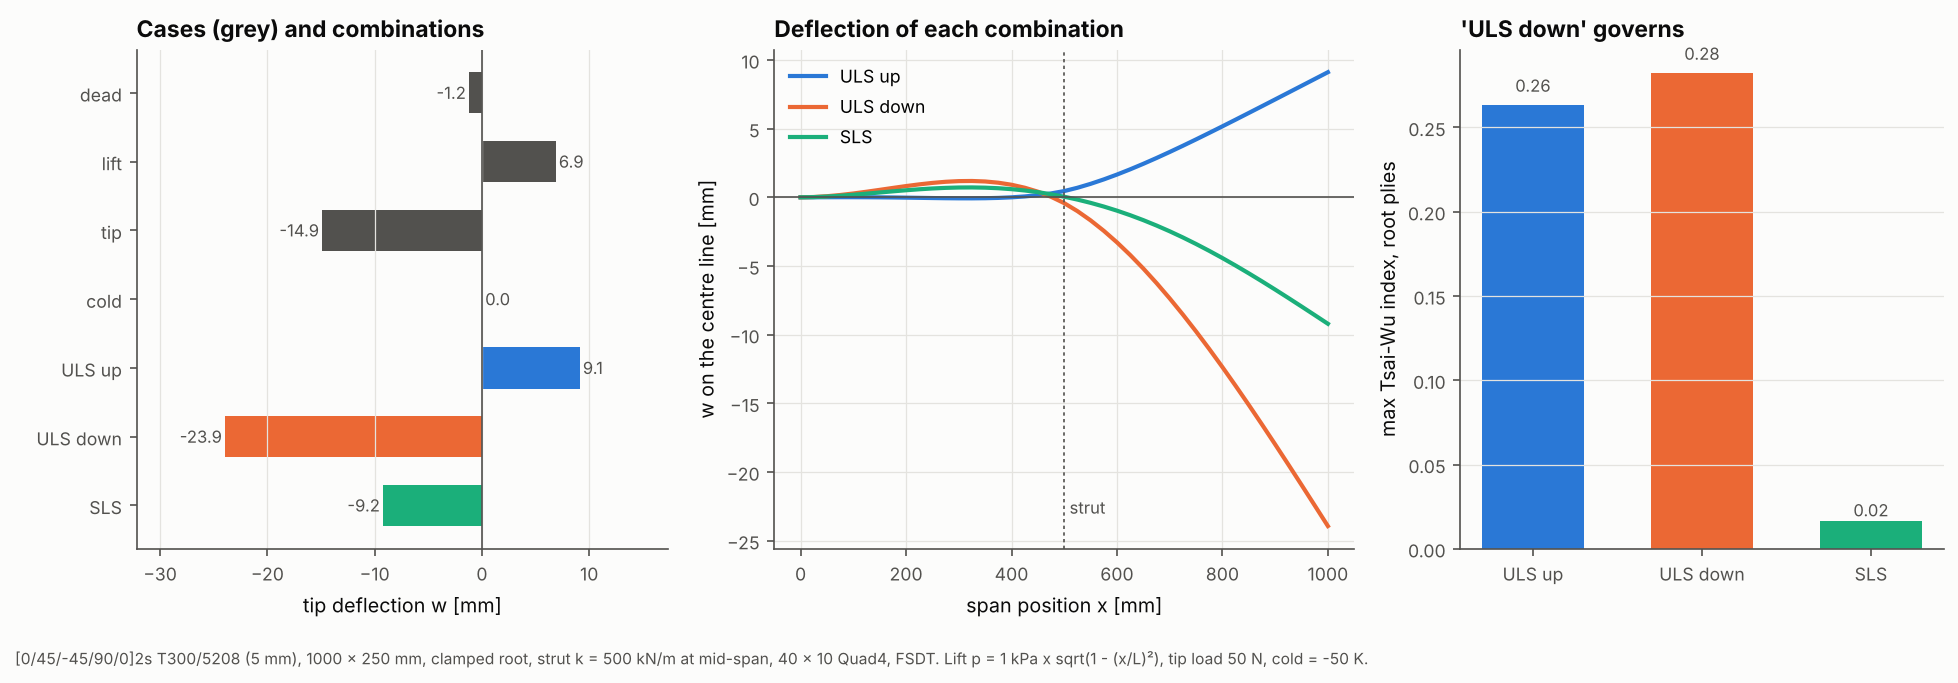
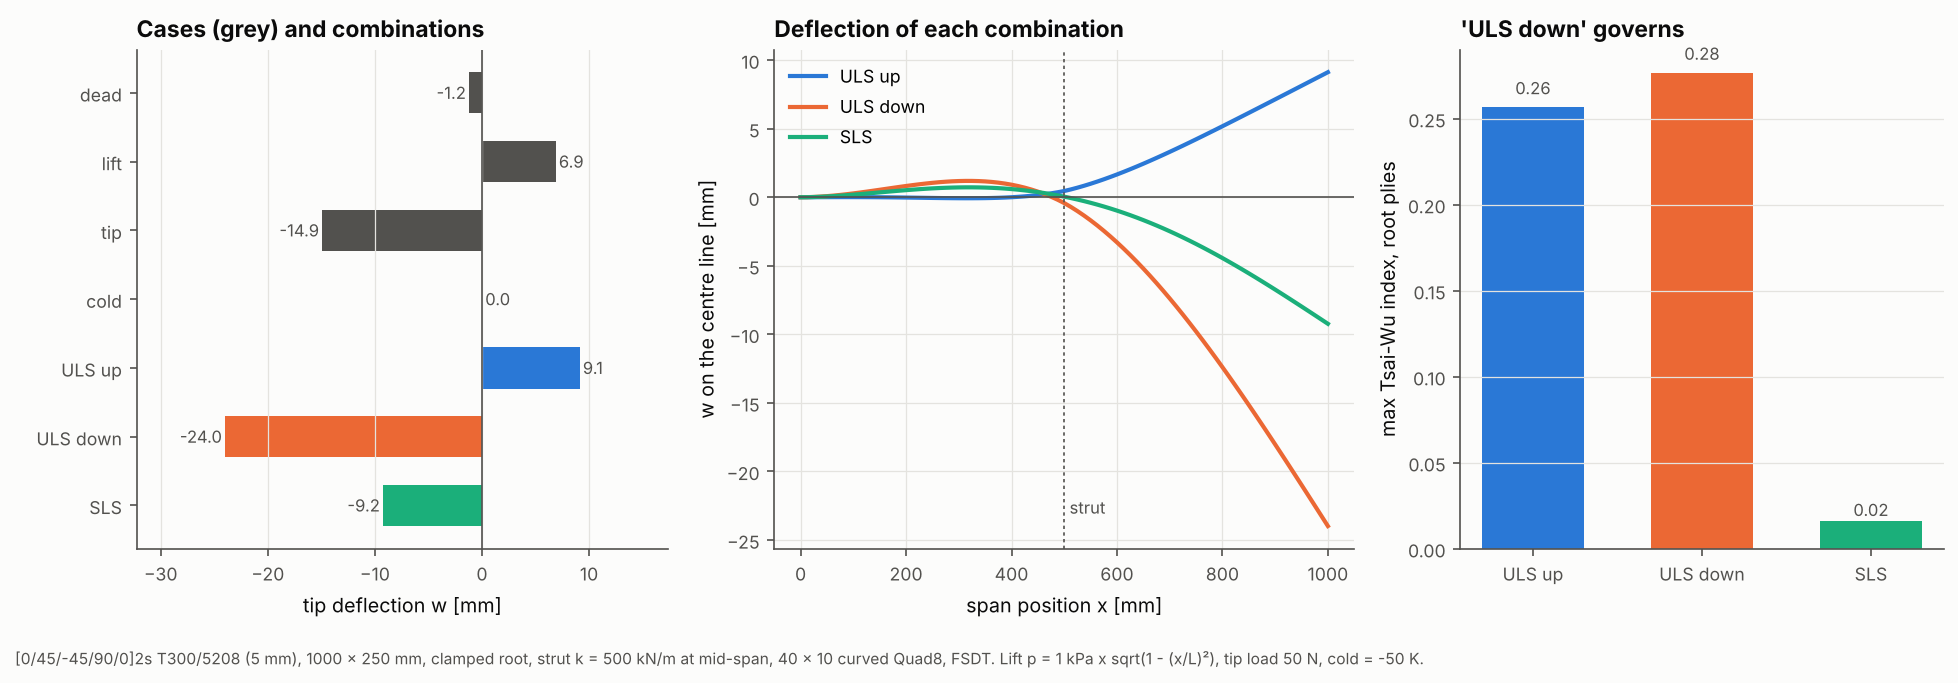
Make curved Quad8 the default element and fix its selective integration
The plate, panel, Gmsh and blade builders now default to quad8_curved
(FEAMesh.rectangular_plate stays a Quad4 helper). Gmsh 8-node quads read
from .msh files become curved Quad8 unless the importer says curved=False.

Curved Quad8 moved only the bare membrane term to the 2 x 2 rule and kept
the membrane-bending coupling of offset or unsymmetric laminates on 3 x 3,
so the element stiffness could turn indefinite: a coarse blade with +/-20
degree caps gave a negative GJ. The part moved to 2 x 2 is now the
generalised membrane strain e_m + A^-1 C_mr r, leaving a positive
semi-definite remainder on 3 x 3.

- Tests that rely on linear elements (edge-load lumping, rebuilt meshes,
  centroids on a line) name quad4; the rigid-body-mode test checks
  two-element meshes and documents the single quad's S8R-like mode.
- Examples 17, 19, 20, 21, 23, 24 and 25 re-run; 08 stays on Quad4
  because it reads Kt from nodal averages.

Claude-Session: https://claude.ai/code/session_0184yXXu3LEK8t2icL4rEzG1

diff --git a/src/laminate_modelling_package/laminate_gmsh.py b/src/laminate_modelling_package/laminate_gmsh.py
@@ -14,10 +14,10 @@ Physical groups carry the model data:
 Supported surface elements are 3-node triangles (Tri3), 6-node triangles (Tri6,
 curved), 4-node quads (Quad4) and 8-node serendipity quads (Quad8, ``Mesh.ElementOrder
 = 2`` with ``Mesh.SecondOrderIncomplete = 1``), in any mix. 8-node quads become flat
-Quad8 elements, or curved Quad8 shells with ``curved=True``. Gmsh puts second-order
+Quad8 elements with ``curved=False``, or curved Quad8 shells (the default). Gmsh puts second-order
 nodes on the CAD geometry, so the curved elements follow curved surfaces. The
-builders take ``element="quad4" | "tri3" | "quad8" | "quad8_curved" | "tri6" |
-"quad_dominant"`` and set the Gmsh options.
+builders take ``element="quad8_curved"`` (the default) ``| "quad4" | "tri3" | "quad8" |
+"tri6" | "quad_dominant"`` and set the Gmsh options.
 """
 
 from __future__ import annotations
@@ -135,7 +135,7 @@ class GmshMeshImporter:
         reversed, so pressure and the ply stack face a consistent side. Use
         ``None`` to keep Gmsh's orientation (for example on closed 3D surfaces).
     curved:
-        Build 8-node quads as curved Quad8 shells instead of flat Quad8.
+        Build 8-node quads as curved Quad8 shells (the default) instead of flat Quad8.
     """
 
     def __init__(
@@ -144,7 +144,7 @@ class GmshMeshImporter:
         kinematics: KinematicModel,
         default_laminate: Optional[Laminate] = None,
         reference_normal: Optional[Sequence[float]] = (0.0, 0.0, 1.0),
-        curved: bool = False,
+        curved: bool = True,
         **element_options,
     ):
         self.curved = bool(curved)
@@ -160,12 +160,15 @@ class GmshMeshImporter:
 
     # ----------------------------------------------------------------- entry points
     def from_file(
-        self, path: Union[str, Path], mesh_options: Optional[Mapping[str, float]] = None, element: str = "quad4"
+        self, path: Union[str, Path], mesh_options: Optional[Mapping[str, float]] = None,
+        element: Optional[str] = None,
     ) -> GmshMesh:
         """Read a ``.msh`` file, or open a geometry file (``.geo``, ``.step``, ...) and mesh it.
 
-        ``element`` picks the element family for geometry files; ``mesh_options``
-        overrides or adds Gmsh options.
+        ``element`` picks the element family for geometry files (curved Quad8 by
+        default); ``mesh_options`` overrides or adds Gmsh options. A ``.msh`` file keeps
+        its own elements, and its 8-node quads follow the importer's ``curved`` unless
+        ``element`` says otherwise.
         """
         path = Path(path)
         if not path.exists():
@@ -174,12 +177,13 @@ class GmshMeshImporter:
             gmsh.clear()
             gmsh.open(str(path))
             if path.suffix.lower() != ".msh":
+                element = element or "quad8_curved"
                 options = globals()["mesh_options"](element)
                 options.update(mesh_options or {})
                 for name, value in options.items():
                     gmsh.option.setNumber(name, value)
                 gmsh.model.mesh.generate(2)
-            return self.from_model(curved=True if element == "quad8_curved" else None)
+            return self.from_model(curved={"quad8_curved": True, "quad8": False}.get(element))
 
     def from_model(self, curved: Optional[bool] = None) -> GmshMesh:
         """Convert the mesh of the current Gmsh model (already generated) into an ``FEAMesh``.
@@ -303,7 +307,7 @@ class GmshPlateBuilder:
     ``bottom`` (y = 0), ``top`` (y = width), ``hole_1``, ``hole_2``, ... and
     ``plate`` (the whole surface, also the element set name). The element size
     shrinks to ``hole_size`` on the hole edges and grows to ``size`` over
-    ``transition`` hole radii. ``element`` chooses Quad4 (default), Tri3, Quad8, curved Quad8, Tri6
+    ``transition`` hole radii. ``element`` chooses curved Quad8 (default), Quad4, Tri3, flat Quad8, Tri6
     or a quad-dominant Quad4/Tri3 mix.
     """
 
@@ -315,7 +319,7 @@ class GmshPlateBuilder:
         size: Optional[float] = None,
         hole_size: Optional[float] = None,
         transition: float = 3.0,
-        element: str = "quad4",
+        element: str = "quad8_curved",
     ):
         self.element = element
         mesh_options(element)  # validates the choice
@@ -342,7 +346,7 @@ class GmshPlateBuilder:
             gmsh.model.mesh.generate(2)
             if save_msh is not None:
                 gmsh.write(str(save_msh))
-            return importer.from_model(curved=True if self.element == "quad8_curved" else None)
+            return importer.from_model(curved={"quad8_curved": True, "quad8": False}.get(self.element))
 
     def _geometry(self, gmsh) -> None:
         occ = gmsh.model.occ

diff --git a/tests/test_generality.py b/tests/test_generality.py
@@ -130,7 +130,8 @@ def test_layup_errors_and_uncovered_elements(cfrp, strip):
 
 
 def test_drape_fields_change_the_fibre_angle(cfrp):
-    named = RectangularPlateBuilder(0.1, 0.1, 2, 2).build_named(Laminate.from_angles(cfrp, [0], 1e-4), FSDTModel())
+    named = RectangularPlateBuilder(0.1, 0.1, 2, 2, element="quad4").build_named(
+        Laminate.from_angles(cfrp, [0], 1e-4), FSDTModel())
     mesh = named.mesh
     mesh.set_material_axis((1.0, 1.0, 0.0))  # element material axes at +45 degrees
     layup = Layup([
@@ -162,13 +163,30 @@ def test_ply_failure_reports_each_named_ply(cfrp, strip):
 # ---------------------------------------------------------------------------
 # Curved shells
 # ---------------------------------------------------------------------------
+def _assembled(mesh):
+    n = max(int(d) for e in mesh.elements for d in mesh.element_dofs(e)) + 1
+    K = np.zeros((n, n))
+    for e in mesh.elements:
+        d = mesh.element_dofs(e)
+        K[np.ix_(d, d)] += e.stiffness_matrix()
+    return K
+
+
 @pytest.mark.parametrize("element", ["quad8_curved", "tri6"])
-def test_curved_elements_have_exactly_six_rigid_body_modes(cfrp, element):
-    lam = Laminate.from_angles(cfrp, [0, 45, 90], 0.25e-3)
-    for builder in (RectangularPlateBuilder(0.05, 0.03, 1, 1, element=element),
-                    CylindricalPanelBuilder(0.1, 0.05, 1, 1, 0, 40, element=element)):
-        e = builder.build(lam, FSDTModel()).elements[0]
-        assert zero_modes(e.stiffness_matrix()) == 6
+@pytest.mark.parametrize("angles", [[0, 45, 90], [0, 90, 0]])
+def test_curved_elements_have_exactly_six_rigid_body_modes(cfrp, element, angles):
+    lam = Laminate.from_angles(cfrp, angles, 0.25e-3)
+    for builder in (RectangularPlateBuilder(0.05, 0.03, 2, 1, element=element),
+                    CylindricalPanelBuilder(0.1, 0.05, 2, 1, 0, 40, element=element)):
+        mesh = builder.build(lam, FSDTModel())
+        assert zero_modes(_assembled(mesh)) == 6
+    # One quad on its own: the 2 x 2 membrane rule leaves the serendipity quad's one
+    # non-communicable membrane mode (as in S8R); a second element, or full integration,
+    # removes it.
+    if element == "quad8_curved":
+        one = RectangularPlateBuilder(0.05, 0.03, 1, 1, element=element)
+        assert zero_modes(one.build(lam, FSDTModel()).elements[0].stiffness_matrix()) == 7
+        assert zero_modes(one.build(lam, FSDTModel(), integration="full").elements[0].stiffness_matrix()) == 6
 
 
 def scordelis_lo(element, n):

diff --git a/src/laminate_modelling_package/laminate_curved_shell.py b/src/laminate_modelling_package/laminate_curved_shell.py
@@ -21,9 +21,13 @@ director).
 
 Integration is selective. The quad integrates membrane and transverse shear with
 2 x 2 Gauss points, which removes membrane and shear locking in thin curved shells,
-and bending, drilling and enrichment terms with 3 x 3, which keeps exactly six
-rigid-body modes (``integration="selective"``, the default; ``"full"`` uses 3 x 3
-for the membrane too, ``"reduced"`` 2 x 2 for everything, as S8R). The triangle uses
+and bending, drilling and enrichment terms with 3 x 3 (``integration="selective"``,
+the default; ``"full"`` uses 3 x 3 for the membrane too, ``"reduced"`` 2 x 2 for
+everything, as S8R). The membrane part moved to 2 x 2 includes the membrane-bending
+coupling of offset or unsymmetric laminates, so the element stiffness stays positive
+semi-definite. A single selective quad keeps the serendipity quad's one
+non-communicable membrane mode, as S8R does; a mesh of two or more has exactly six
+rigid-body modes. The triangle uses
 a 6-point rule for bending and 3 points for membrane and shear.
 Results are sampled at the 2 x 2 points (quad) or the 3 points (triangle).
 
@@ -216,10 +220,19 @@ class CurvedShellElement(ShellElement):
         K = super().local_stiffness_matrix().copy()
         full, reduced = self.stiffness_rule(), self.membrane_rule()
         if reduced != full:
-            A = self.section.C_ee[:3, :3]
+            # The section energy splits into two non-negative parts,
+            #   e^T C e = m^T A m + r^T (C_rr - C_rm A^-1 C_mr) r,   m = e_m + A^-1 C_mr r,
+            # with e_m the membrane strains and r the rest (curvatures, enrichment). Only
+            # the first part moves to the reduced rule. Swapping the bare membrane term
+            # instead leaves the membrane-bending coupling of offset or unsymmetric
+            # laminates on the full rule, and the element stiffness can turn indefinite.
+            C = self.section.C_ee
+            A = C[:3, :3]
+            G = np.linalg.solve(A, C[:3, 3:])
             for rule, sign in ((full, -1.0), (reduced, 1.0)):
                 for xi, eta, w in rule:
-                    B_m = self.in_plane_operator(xi, eta)[:3]
+                    B_e = self.in_plane_operator(xi, eta)
+                    B_m = B_e[:3] + G @ B_e[3:]
                     K += sign * (B_m.T @ A @ B_m) * (w * self._point(xi, eta)["detJ"])
         self._K_local = 0.5 * (K + K.T)
         return self._K_local

diff --git a/src/laminate_modelling_package/laminate_mesh_builders.py b/src/laminate_modelling_package/laminate_mesh_builders.py
@@ -4,9 +4,9 @@ Builders create the nodes and elements of simple geometries and record named nod
 sets for the edges, so boundary conditions and line loads can be applied by name.
 General geometry is meshed with Gmsh (``laminate_gmsh``).
 
-``element`` selects the element type: ``"quad4"`` (default), ``"tri3"`` (each cell
-split along its diagonal), ``"quad8"`` (flat 8-node), ``"quad8_curved"`` (curved
-8-node shell) or ``"tri6"`` (curved 6-node triangles). Quadratic elements put their
+``element`` selects the element type: ``"quad8_curved"`` (curved 8-node shell, the
+default), ``"quad4"``, ``"tri3"`` (each cell split along its diagonal), ``"quad8"``
+(flat 8-node) or ``"tri6"`` (curved 6-node triangles). Quadratic elements put their
 mid-side nodes on the exact geometry, so the curved elements follow it.
 """
 
@@ -134,7 +134,7 @@ class RectangularPlateBuilder:
     nx: int
     ny: int
     origin: Sequence[float] = (0.0, 0.0, 0.0)
-    element: str = "quad4"
+    element: str = "quad8_curved"
 
     def build_named(self, laminate: Laminate, kinematics: KinematicModel, **element_options) -> NamedMesh:
         x0, y0, z0 = (list(self.origin) + [0.0, 0.0, 0.0])[:3]
@@ -164,7 +164,7 @@ class CylindricalPanelBuilder:
     n_hoop: int
     phi_start: float = 0.0
     phi_end: float = 90.0
-    element: str = "quad4"
+    element: str = "quad8_curved"
 
     def build_named(self, laminate: Laminate, kinematics: KinematicModel, **element_options) -> NamedMesh:
         span = self.phi_end - self.phi_start

diff --git a/src/laminate_modelling_package/laminate_blade.py b/src/laminate_modelling_package/laminate_blade.py
@@ -220,8 +220,10 @@ class BladeBuilder:
     n_span:
         Elements along the span (an int), or increasing span fractions 0..1.
     element:
-        ``"quad4"`` (default), ``"quad8"`` or ``"quad8_curved"``. Quadratic elements
-        put their mid-side nodes on the airfoil surface.
+        ``"quad8_curved"`` (default), ``"quad8"`` or ``"quad4"``. Quadratic elements
+        put their mid-side nodes on the airfoil surface. Flat facets (``"quad4"``,
+        ``"quad8"``) under-predict the torsional stiffness of thick-walled sections
+        with offset skins, so keep the default where torsion matters.
     trailing_edge:
         ``"auto"`` joins the surfaces at a sharp trailing edge and adds a flat
         ``te_web`` across a blunt one; ``"web"`` always adds it.
@@ -239,7 +241,7 @@ class BladeBuilder:
         regions: Sequence[SkinRegion],
         webs: Sequence[ShearWeb] = (),
         n_span: Union[int, Sequence[float]] = 10,
-        element: str = "quad4",
+        element: str = "quad8_curved",
         skin_reference: str = "outer",
         trailing_edge: str = "auto",
         te_web_elements: int = 2,

diff --git a/examples/23_blade_segment/blade_segment.py b/examples/23_blade_segment/blade_segment.py
@@ -231,7 +231,7 @@ def main():
     ax2.grid(axis="x", visible=False)
     ax2.set_ylim(0.0, 1.3 * np.nanmax(faces + core))
     ax2.legend(loc="upper left", ncol=2)
-    fig.text(0.0, -0.05, f"NACA 4421, {CHORD:g} m chord, {LENGTH:g} m, Quad4 FSDT, {N_SPAN} elements along the span. "
+    fig.text(0.0, -0.05, f"NACA 4421, {CHORD:g} m chord, {LENGTH:g} m, curved Quad8 FSDT, {N_SPAN} elements along the span. "
              f"E-glass/epoxy faces [±45/0], PVC foam 10 mm (LE) and 15 mm (TE), caps [±45/16 x 1 mm UD/∓45], "
              f"webs [±45]4. Suction {Q_SUCTION / 1e3:g} kPa, pressure {Q_PRESSURE / 1e3:g} kPa, edgewise gravity, "
              f"tip shear ({TIP_FORCE[0] / 1e3:g}, {TIP_FORCE[1] / 1e3:g}) kN and {TIP_TORQUE / 1e3:g} kN m through RBE3.",

diff --git a/examples/21_spar_cap_ply_drops/spar_cap_ply_drops.py b/examples/21_spar_cap_ply_drops/spar_cap_ply_drops.py
@@ -144,7 +144,7 @@ def main():
     ax2.set_title("Worst index of each named ply", loc="left")
     ax2.grid(axis="x", visible=False)
     fig.text(0.0, -0.05, f"Root 1.2 m NACA 0024 to tip 0.6 m NACA 0018, −6° twist, {LENGTH:g} m, {N_SPAN} elements along the span, "
-             f"Quad4 FSDT. E-glass/epoxy: skins [±45/0/∓45], caps [±45 / {FULL_PLIES}–20 x 1 mm UD / ∓45, 0], webs [±45]s. "
+             f"curved Quad8 FSDT. E-glass/epoxy: skins [±45/0/∓45], caps [±45 / {FULL_PLIES}–20 x 1 mm UD / ∓45, 0], webs [±45]s. "
              f"Flap pressure 0 to {Q_TIP / 1e3:g} kPa on the pressure side; root clamped.", fontsize=7.5, color=TEXT_SECONDARY)
     fig.tight_layout()
     save(fig, __file__, "spar_cap_ply_drops.png")

diff --git a/examples/20_blade_beam_properties/blade_beam_properties.py b/examples/20_blade_beam_properties/blade_beam_properties.py
@@ -120,7 +120,7 @@ def main():
     ax2.set_xlabel("cap fibre angle θ [deg]")
     ax2.set_ylabel("S₁₄ / √(S₁₁ S₄₄)  (flap-twist)")
     ax2.set_title("Bend-twist coupling", loc="left")
-    fig.text(0.0, -0.05, f"NACA 0024, chord {CHORD:g} m, {LENGTH:g} m segment, {N_SPAN} elements along the span, Quad4 FSDT. "
+    fig.text(0.0, -0.05, f"NACA 0024, chord {CHORD:g} m, {LENGTH:g} m segment, {N_SPAN} elements along the span, curved Quad8 FSDT. "
              "Skins [0/±45]s E-glass 3 mm; caps 16 x 0.5 mm T300/5208 at +θ (suction) / −θ (pressure), 18-48% chord; "
              "webs [±45]s E-glass at 18% and 48%.", fontsize=7.5, color=TEXT_SECONDARY)
     fig.tight_layout()

diff --git a/examples/19_load_combinations/load_combinations.py b/examples/19_load_combinations/load_combinations.py
@@ -147,7 +147,7 @@ def main():
     ax2.set_title(f"'{order[int(np.argmax(values))]}' governs", loc="left")
     ax2.grid(axis="x", visible=False)
     fig.text(0.0, -0.04, f"[0/45/-45/90/0]2s T300/5208 (5 mm), {SPAN * 1e3:.0f} x {CHORD * 1e3:.0f} mm, clamped root, "
-             f"strut k = {STRUT_K / 1e3:.0f} kN/m at mid-span, {NX} x {NY} Quad4, FSDT. Lift p = {P0 / 1e3:.0f} kPa "
+             f"strut k = {STRUT_K / 1e3:.0f} kN/m at mid-span, {NX} x {NY} curved Quad8, FSDT. Lift p = {P0 / 1e3:.0f} kPa "
              f"x sqrt(1 - (x/L)²), tip load {TIP:.0f} N, cold = -50 K.", fontsize=7.5, color=TEXT_SECONDARY)
     fig.tight_layout()
     save(fig, __file__, "load_combinations.png")

diff --git a/examples/08_open_hole_gmsh/open_hole_gmsh.py b/examples/08_open_hole_gmsh/open_hole_gmsh.py
@@ -81,7 +81,9 @@ def solve(gm):
 
 def main():
     card = create_default_library().get("T300/5208")
-    builder = GmshPlateBuilder(L, W, [CircularHole(L / 2, W / 2, R)], size=0.012, hole_size=0.0003, transition=6)
+    # Quad4: Kt is read from nodal averages at the hole, which suits linear elements (example 18 compares types)
+    builder = GmshPlateBuilder(L, W, [CircularHole(L / 2, W / 2, R)], size=0.012, hole_size=0.0003, transition=6,
+                               element="quad4")
     results = {}
     print(f"{'laminate':<16}{'Kt FE':>8}{'Kt Lekhnitskii':>16}{'difference':>12}")
     for name, angles in LAMINATES.items():

diff --git a/tests/test_gmsh.py b/tests/test_gmsh.py
@@ -39,7 +39,8 @@ def tension(gm, length, nx=1.0e5):
 
 def test_plain_plate_is_all_quads_with_named_edges(cfrp):
     lam = Laminate.from_angles(cfrp, [0, 90, 90, 0], 0.25e-3)
-    gm = GmshPlateBuilder(0.1, 0.05, size=0.01).build(GmshMeshImporter(lam, FSDTModel()))
+    # tension() lumps the edge load as for linear elements
+    gm = GmshPlateBuilder(0.1, 0.05, size=0.01, element="quad4").build(GmshMeshImporter(lam, FSDTModel()))
     mesh = gm.mesh
     assert {"left", "right", "bottom", "top", "plate"} <= set(gm.node_sets)
     assert len(gm.elements("plate")) == len(mesh.elements) > 0

diff --git a/examples/17_pagano_benchmark/pagano_benchmark.py b/examples/17_pagano_benchmark/pagano_benchmark.py
@@ -126,7 +126,7 @@ def main():
     ax1.set_ylabel("z / h")
     ax1.legend(loc="lower right", fontsize=8)
     fig.text(0.0, -0.04, f"[0/90/0] Pagano material (E1/E2 = 25), simply supported, q = q0 sin(πx/a) sin(πy/a), "
-             f"{N} x {N} Quad4, layerwise with 3 sub-layers per ply. Dashed horizontal lines mark ply interfaces.",
+             f"{N} x {N} curved Quad8, layerwise with 3 sub-layers per ply. Dashed horizontal lines mark ply interfaces.",
              fontsize=7.5, color=TEXT_SECONDARY)
     fig.tight_layout()
     save(fig, __file__, "pagano_benchmark.png")
